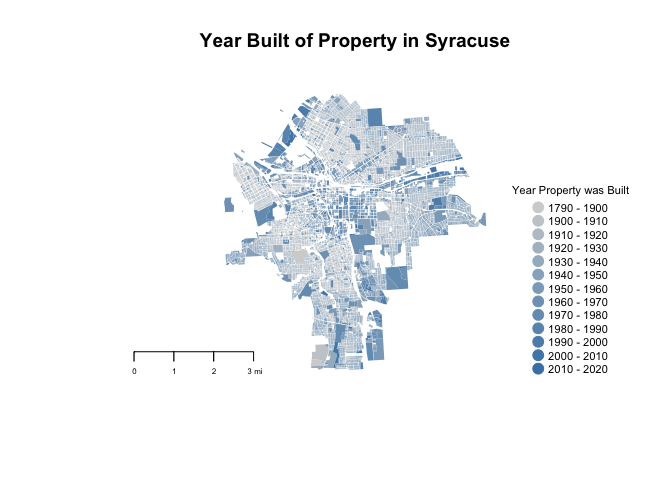
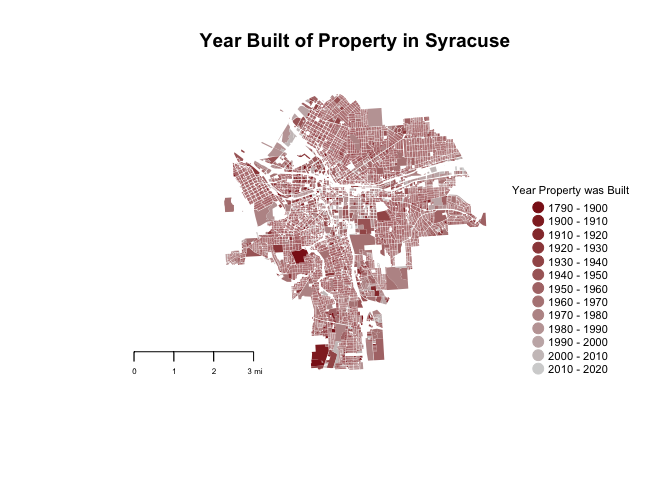
lab04 fix

Changed region(s): [[0.3125, 0.1875, 0.75, 0.7812], [0.7812, 0.4062, 0.8125, 0.7812]]

diff --git a/Lab04.md b/Lab04.md
@@ -279,7 +279,7 @@ datGrouped <- group_by(singles, Nhood)
 ``` r
 years <- as.numeric(as.character(dat$YearBuilt))
 
-color.function <- colorRampPalette( c("light gray","steel blue" ) ) 
+color.function <- colorRampPalette( c("firebrick4", "light gray" ) ) 
 
 col.ramp <- color.function( 13 )
 
